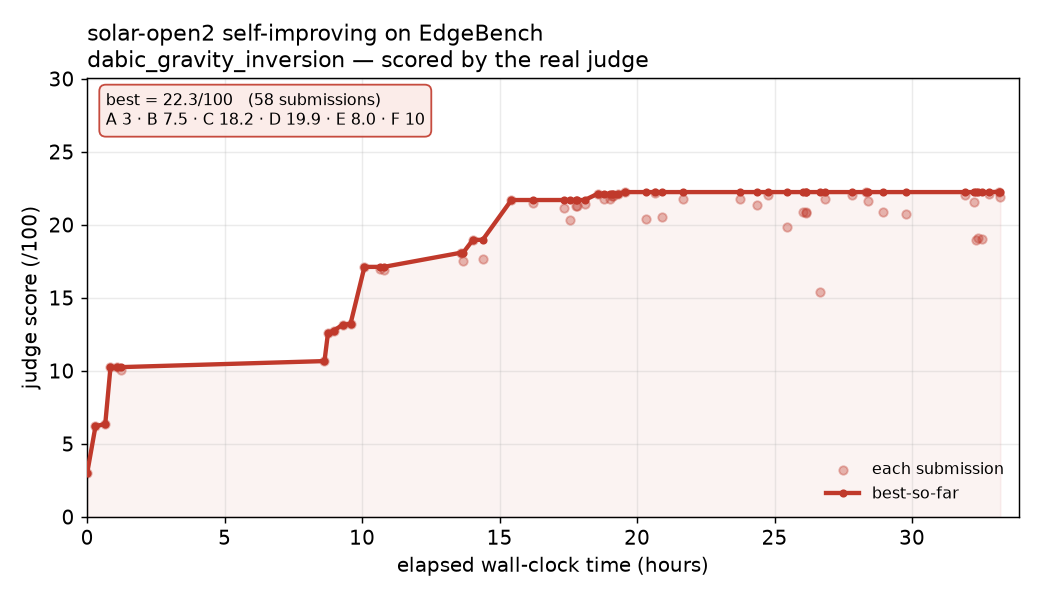
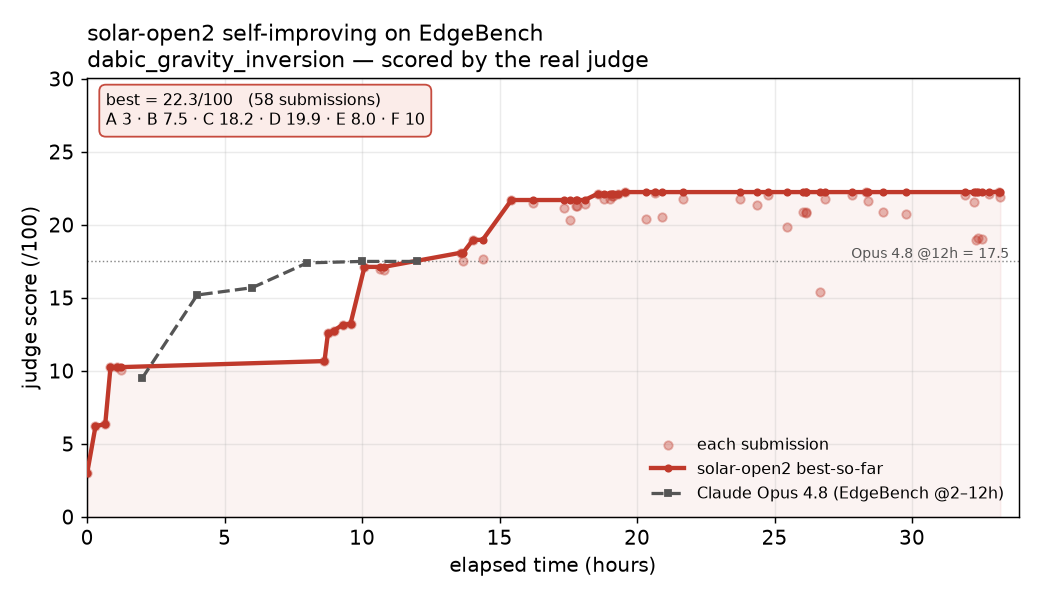
Add Claude Opus 4.8 reference line to the learning curve
EdgeBench official dabic_gravity_inversion @2-12h (9.5->17.5), plus a 17.5
guide line. solar-open2's self-improving best (22.3) clearly exceeds it.

diff --git a/scripts/plot_curve.py b/scripts/plot_curve.py
@@ -38,19 +38,30 @@ def main():
     comp = {k: rows[best_i][i] for i, k in enumerate("ABCDEF", start=2)}
     peak = scores[best_i]
 
+    # EdgeBench official leaderboard, dabic_gravity_inversion, @2/4/6/8/10/12h
+    OPUS_H = [2, 4, 6, 8, 10, 12]
+    OPUS_S = [9.5, 15.2, 15.7, 17.4, 17.5, 17.5]
+
     plt.rcParams.update({"font.size": 11, "figure.dpi": 130})
     fig, ax = plt.subplots(figsize=(8, 4.6))
     ax.scatter(hrs, scores, s=22, color="#c0392b", alpha=0.35, label="each submission", zorder=2)
     ax.plot(hrs, best, color="#c0392b", lw=2.4, marker="o", ms=3.5,
-            label="best-so-far", zorder=3)
+            label="solar-open2 best-so-far", zorder=3)
     ax.fill_between(hrs, 0, best, color="#c0392b", alpha=0.06)
+
+    # reference: Claude Opus 4.8 (EdgeBench official 12h leaderboard)
+    ax.plot(OPUS_H, OPUS_S, color="#555", lw=1.8, ls="--", marker="s", ms=3,
+            label="Claude Opus 4.8 (EdgeBench @2–12h)", zorder=3)
+    ax.axhline(17.5, color="#888", lw=0.8, ls=":", zorder=1)
+    ax.text(0.99, 17.5, " Opus 4.8 @12h = 17.5", color="#555", fontsize=8,
+            va="bottom", ha="right", transform=ax.get_yaxis_transform())
 
     ax.set_title("solar-open2 self-improving on EdgeBench\n"
                  "dabic_gravity_inversion — scored by the real judge", fontsize=12, loc="left")
-    ax.set_xlabel("elapsed wall-clock time (hours)")
+    ax.set_xlabel("elapsed time (hours)")
     ax.set_ylabel("judge score (/100)")
-    ax.set_ylim(0, max(20, peak * 1.35))
-    ax.set_xlim(0, max(0.5, hrs[-1] * 1.02))
+    ax.set_ylim(0, max(20, peak * 1.35, 19))
+    ax.set_xlim(0, max(0.5, hrs[-1] * 1.02, 12.3))
     ax.grid(True, alpha=0.25)
     ax.legend(loc="lower right", frameon=False, fontsize=9)
 
